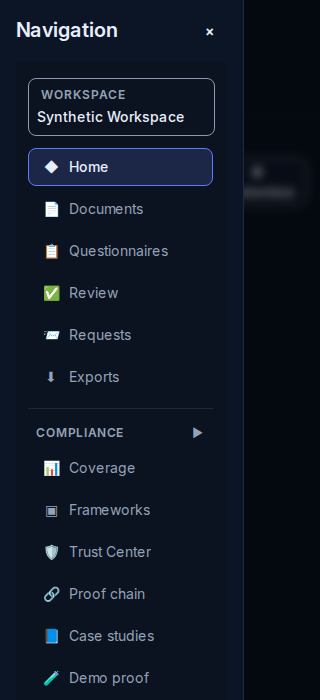
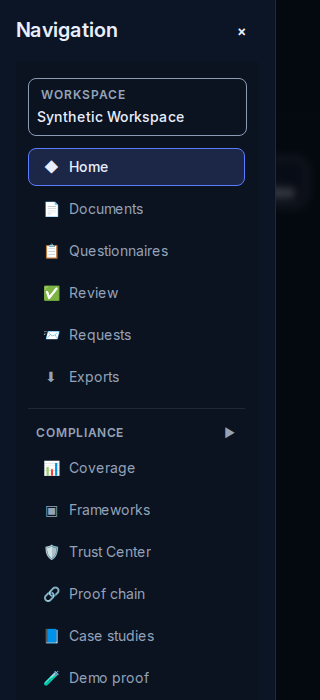
TC-14-006b: keep drawer width classes visible to Tailwind
The drawer width and max-width are static class strings, and
lib/dialog.ts is included in the Tailwind scan, so the 20rem cap and
the 2.75rem strip are generated.

diff --git a/apps/web/lib/dialog.ts b/apps/web/lib/dialog.ts
@@ -46,23 +46,19 @@ export function chooseReturnFocus<
 
 /**
  * Width reserved beside a drawer so a 320px viewport still has a tap target
- * on the backdrop. The content wrapper stays `min-w-0 max-w-full` and does
- * not use `flex-1` on the row axis, so it cannot grow across that strip.
+ * on the backdrop. Documented here for tests. The panel classes below are
+ * written out in full so Tailwind can see them; do not interpolate this
+ * value into a class name.
  */
 export const DRAWER_BACKDROP_STRIP = '2.75rem'
 
 export const dialogContentClass = 'min-h-0 min-w-0 max-w-full text-tc-text'
 
-function drawerPanel(edge: 'border-r' | 'border-l'): string {
-  const capped = `calc(100%-${DRAWER_BACKDROP_STRIP})`
-  return [
-    'relative z-10 flex h-full max-h-[100dvh]',
-    `w-[min(20rem,${capped})] max-w-[${capped}]`,
-    'min-w-0 shrink-0 flex-col overflow-y-auto overscroll-contain',
-    edge,
-    'border-tc-border p-tc-4 shadow-[var(--tc-shadow)]',
-  ].join(' ')
-}
+const drawerStartPanel =
+  'relative z-10 flex h-full max-h-[100dvh] w-[min(20rem,calc(100%-2.75rem))] max-w-[calc(100%-2.75rem)] min-w-0 shrink-0 flex-col overflow-y-auto overscroll-contain border-r border-tc-border p-tc-4 shadow-[var(--tc-shadow)]'
+
+const drawerEndPanel =
+  'relative z-10 flex h-full max-h-[100dvh] w-[min(20rem,calc(100%-2.75rem))] max-w-[calc(100%-2.75rem)] min-w-0 shrink-0 flex-col overflow-y-auto overscroll-contain border-l border-tc-border p-tc-4 shadow-[var(--tc-shadow)]'
 
 export function dialogRoleForDestructive(destructive: boolean): DialogRole {
   return destructive ? 'alertdialog' : 'dialog'
@@ -98,11 +94,11 @@ export const dialogPlacementClass: Record<
   },
   'drawer-start': {
     root: 'fixed inset-0 z-50 flex justify-start',
-    panel: drawerPanel('border-r'),
+    panel: drawerStartPanel,
   },
   'drawer-end': {
     root: 'fixed inset-0 z-50 flex justify-end',
-    panel: drawerPanel('border-l'),
+    panel: drawerEndPanel,
   },
 }
 

diff --git a/apps/web/e2e/release/drawer-followups.spec.ts b/apps/web/e2e/release/drawer-followups.spec.ts
@@ -206,7 +206,11 @@ test.describe('drawer and dialog follow-ups', () => {
   test('a viewport of 320px and below keeps a tappable backdrop strip', async ({
     page,
   }) => {
-    for (const width of [320, 300]) {
+    const expectedWidth: Record<number, number> = {
+      320: 276,
+      600: 320,
+    }
+    for (const width of [320, 300, 600]) {
       await openDashboard(page, width, 700)
       await page.getByRole('button', { name: 'Open navigation' }).click()
       const dialog = page.getByRole('dialog', { name: 'Navigation' })
@@ -215,6 +219,10 @@ test.describe('drawer and dialog follow-ups', () => {
       expect(panel).not.toBeNull()
       expect(panel!.width).toBeLessThan(width - 24)
       expect(panel!.x + panel!.width).toBeLessThan(width - 16)
+      const target = expectedWidth[width]
+      if (target != null) {
+        expect(Math.abs(panel!.width - target)).toBeLessThanOrEqual(1)
+      }
 
       if (width === 320) {
         await page.screenshot({

diff --git a/apps/web/lib/dialog.test.ts b/apps/web/lib/dialog.test.ts
@@ -45,10 +45,13 @@ describe('dialog primitive contract', () => {
   it('leaves a backdrop strip beside a drawer and does not let the content wrapper fill it', () => {
     for (const placement of ['drawer-start', 'drawer-end'] as const) {
       const panel = dialogPlacementClass[placement].panel
+      expect(panel).toContain('w-[min(20rem,calc(100%-2.75rem))]')
+      expect(panel).toContain('max-w-[calc(100%-2.75rem)]')
       expect(panel).toContain(`calc(100%-${DRAWER_BACKDROP_STRIP})`)
       expect(panel).toContain('shrink-0')
       expect(panel).toContain('min-w-0')
       expect(panel).not.toContain('min(100%,20rem)')
+      expect(panel).not.toContain('${')
     }
     expect(DRAWER_BACKDROP_STRIP).toBe('2.75rem')
     expect(dialogContentClass).toContain('min-w-0')

diff --git a/apps/web/tailwind.config.js b/apps/web/tailwind.config.js
@@ -3,6 +3,7 @@ module.exports = {
   content: [
     './app/**/*.{js,ts,jsx,tsx,mdx}',
     './components/**/*.{js,ts,jsx,tsx,mdx}',
+    './lib/dialog.ts',
   ],
   theme: {
     extend: {
